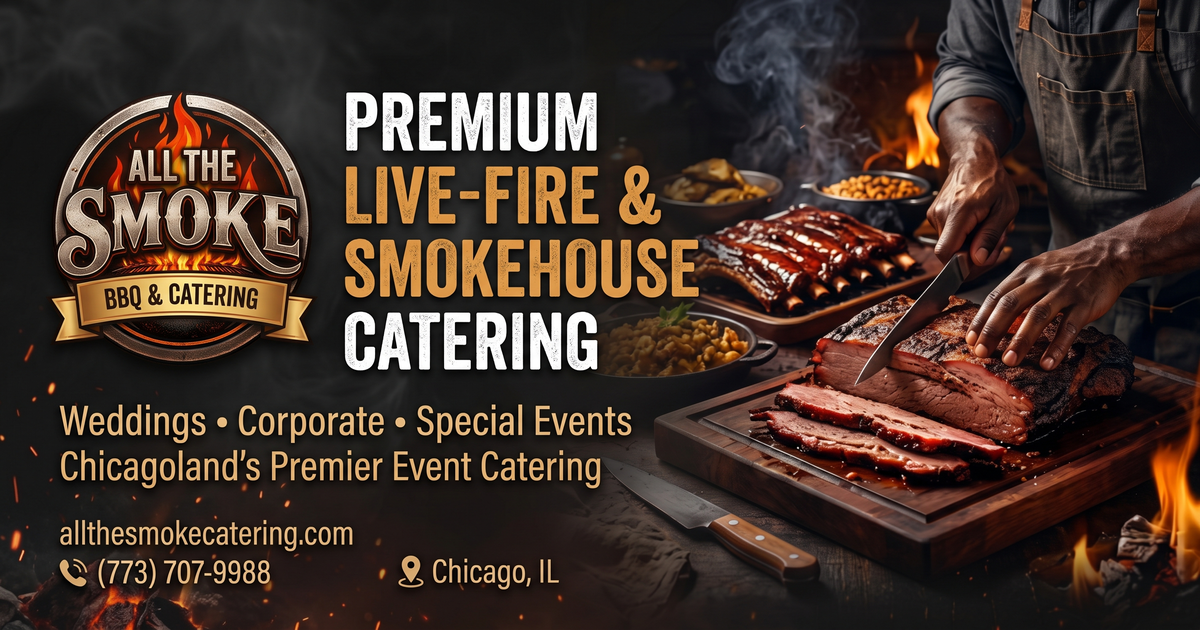
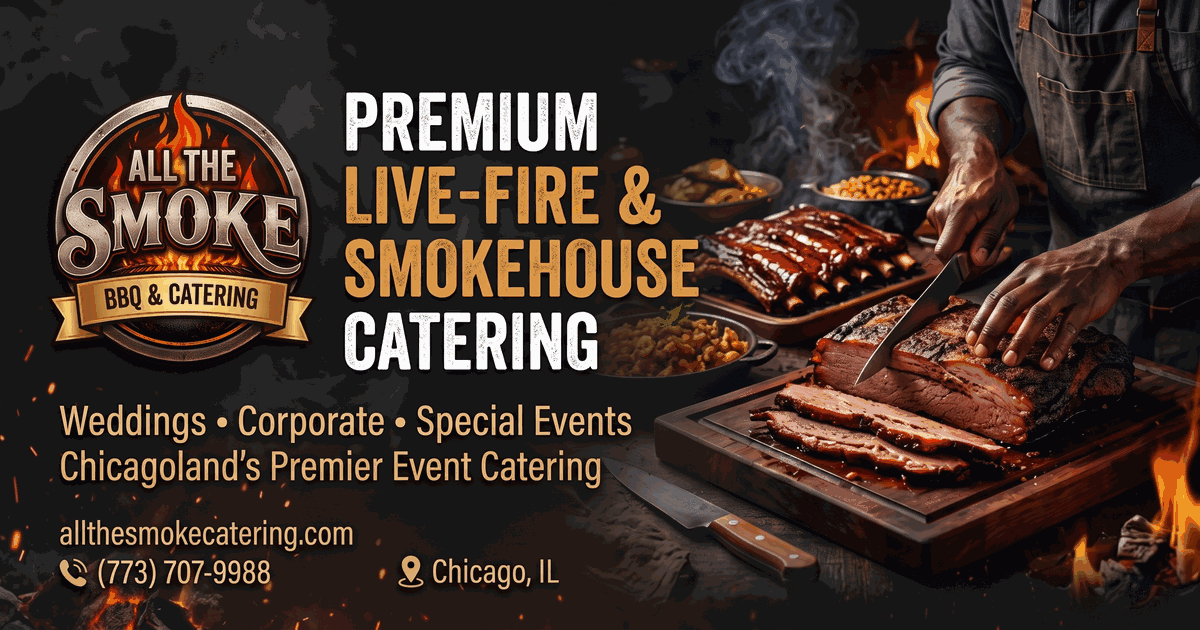
perf(seo): optimize OG images under 250KB and add progressive JPEG for iMessage/mobile rich link cards

diff --git a/src/app/layout.tsx b/src/app/layout.tsx
@@ -67,6 +67,13 @@ export const metadata: Metadata = {
     type: "website",
     images: [
       {
+        url: "/allthesmoke-og-card.jpg",
+        width: 1200,
+        height: 630,
+        type: "image/jpeg",
+        alt: `${SITE_CONFIG.brandName} - Premium Live-Fire Smokehouse Catering`,
+      },
+      {
         url: "/allthesmoke-og-card.png",
         width: 1200,
         height: 630,
@@ -79,7 +86,7 @@ export const metadata: Metadata = {
     card: "summary_large_image",
     title: SITE_CONFIG.meta.title,
     description: SITE_CONFIG.meta.description,
-    images: ["/allthesmoke-og-card.png"],
+    images: ["/allthesmoke-og-card.jpg"],
   },
   alternates: {
     canonical: siteUrl,
